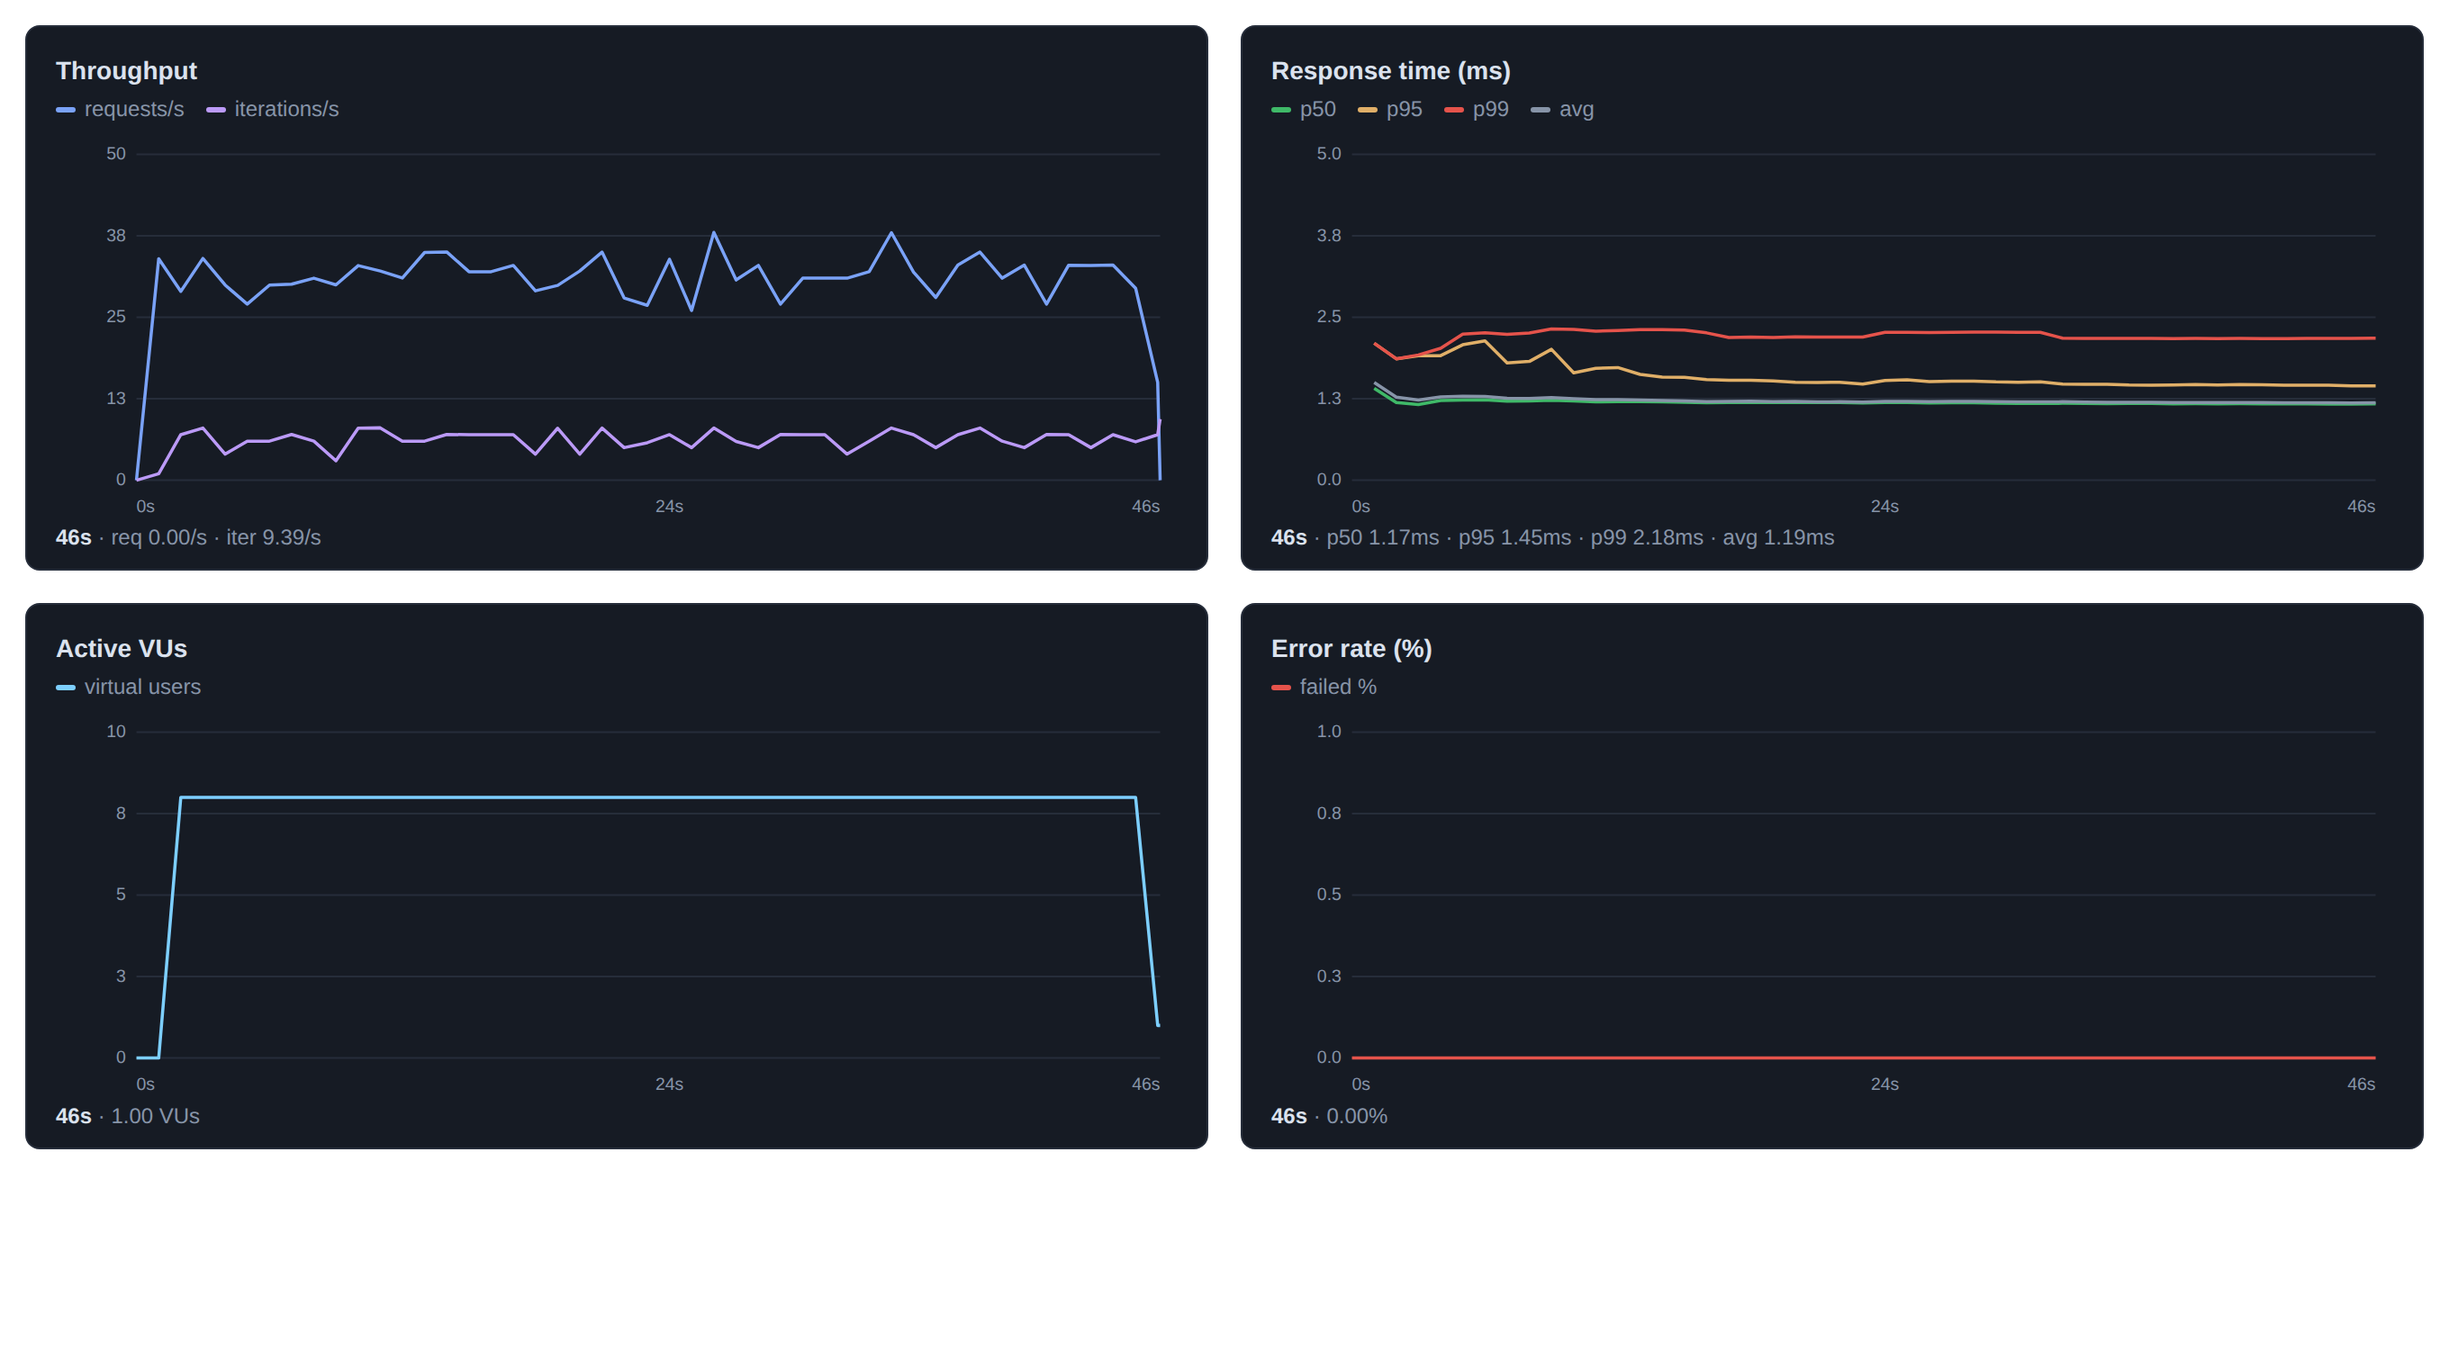
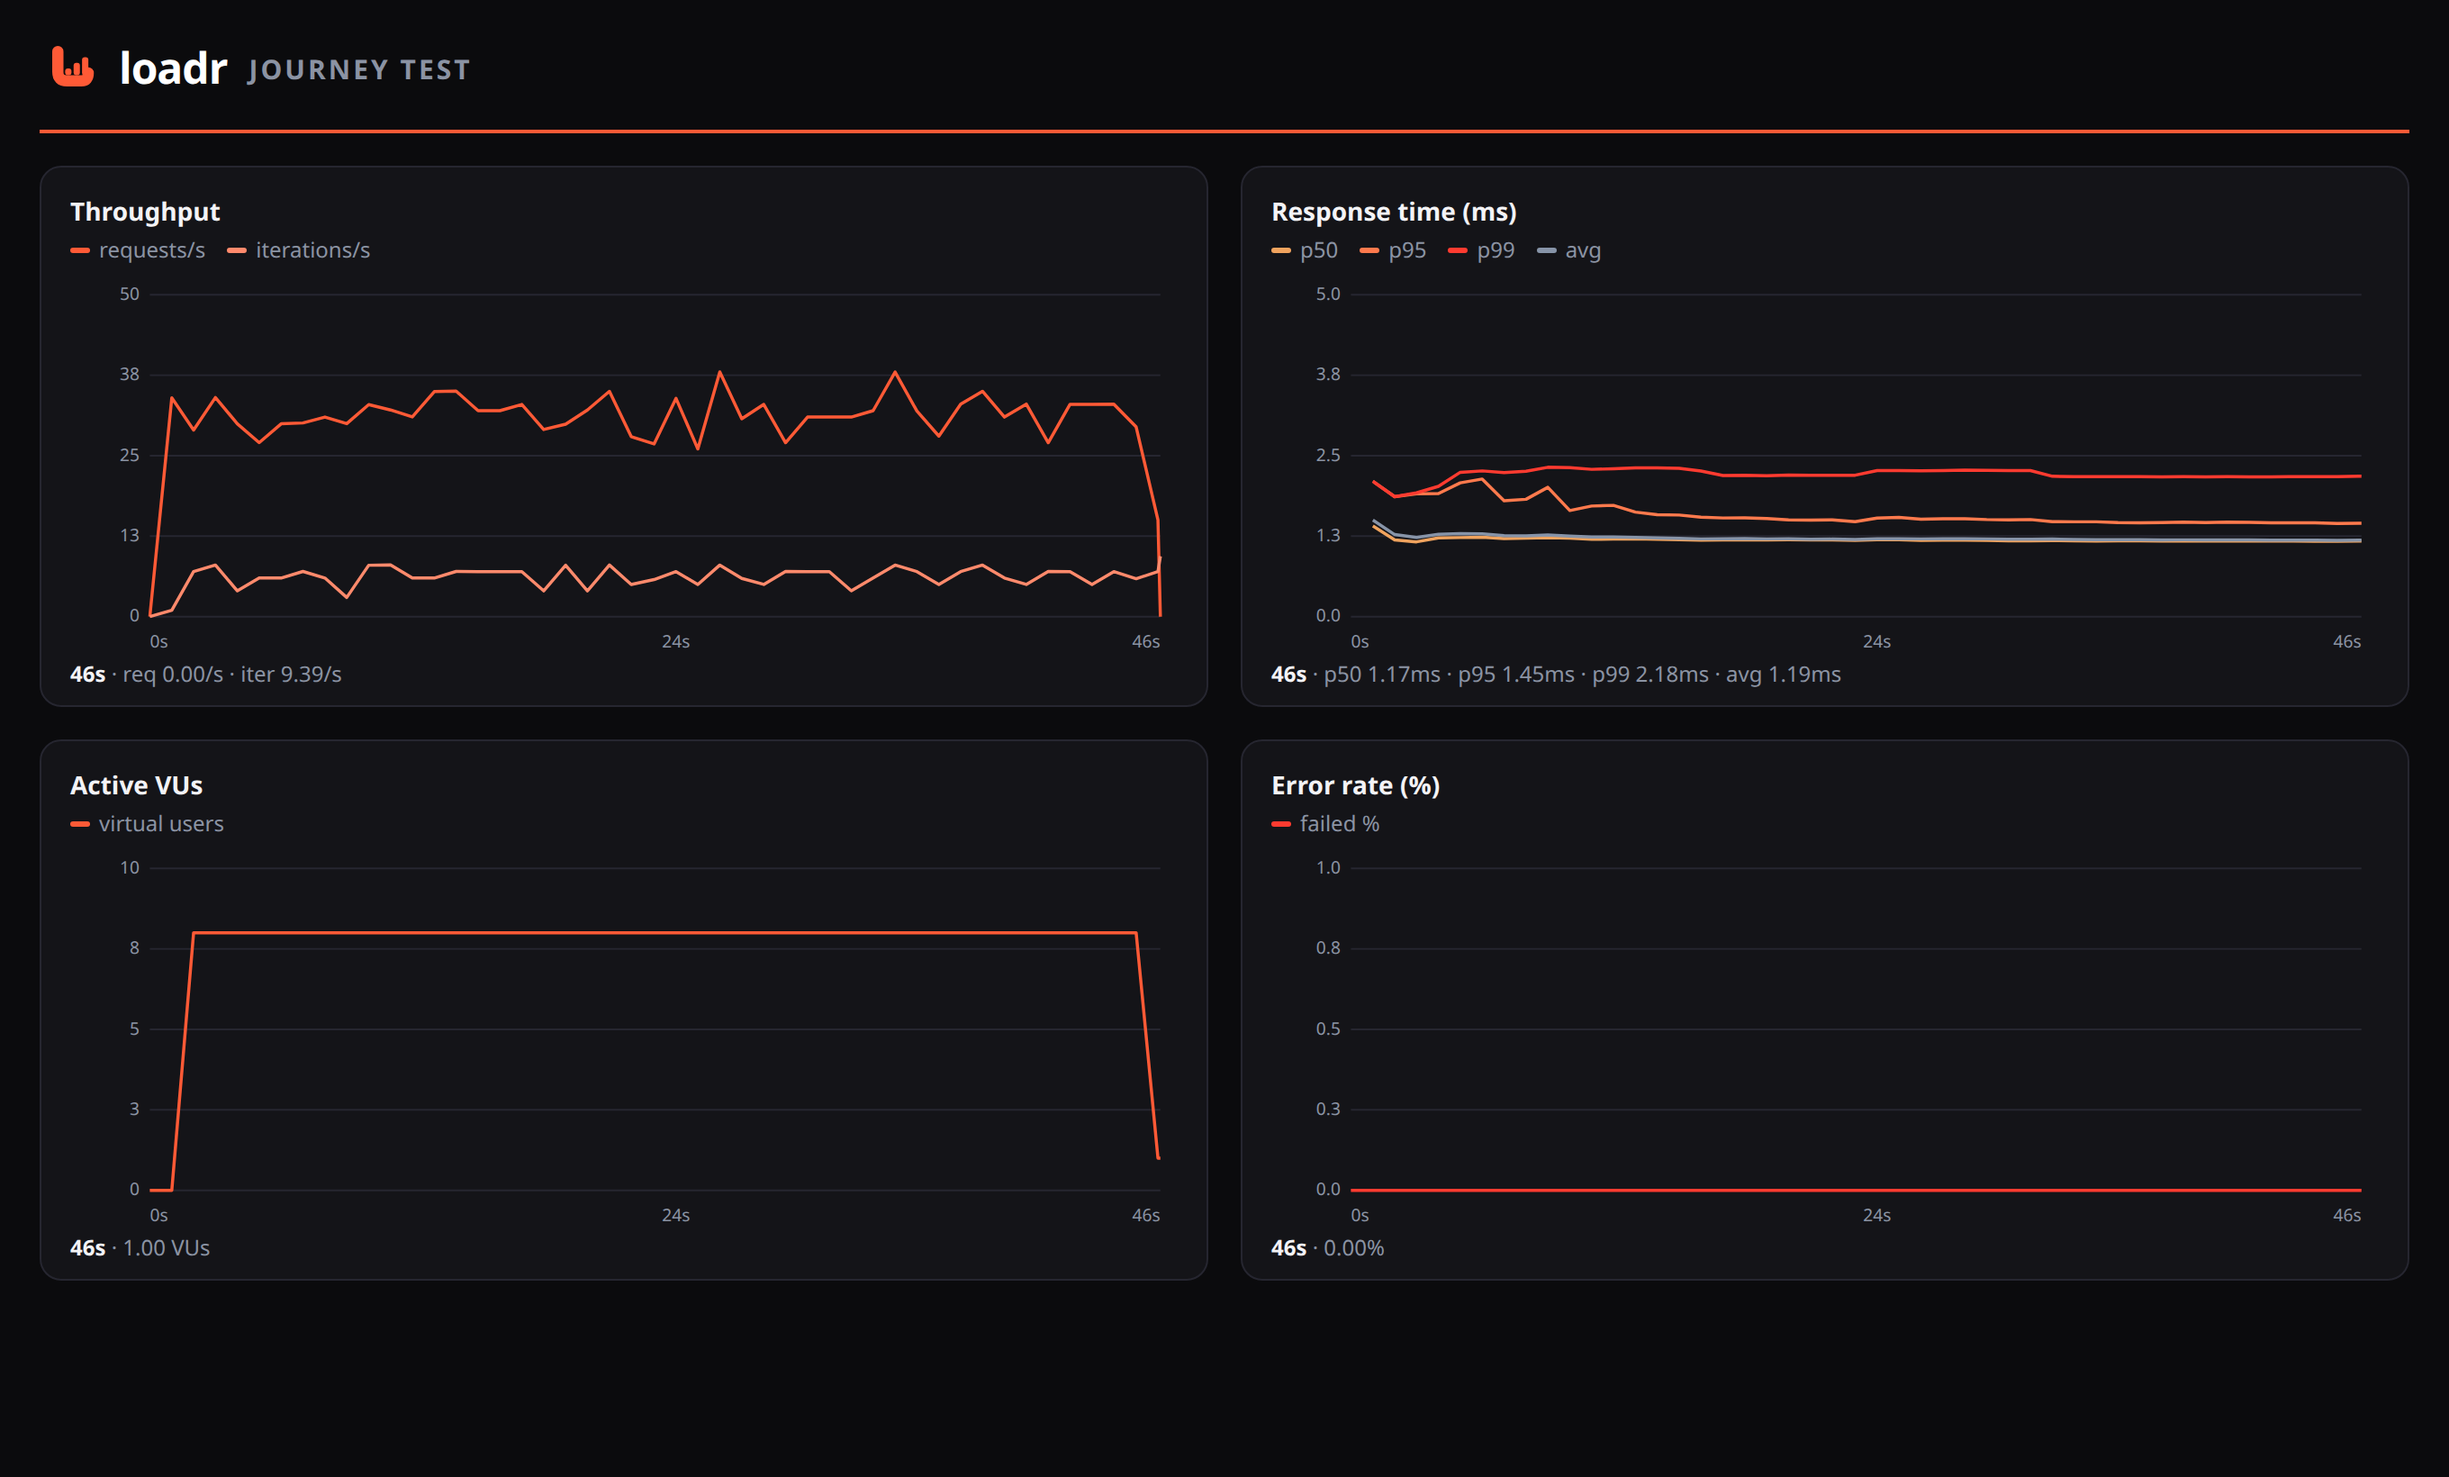
docs: loadr-brand the graphs + replace ASCII pipeline with a drawio PNG
- Re-theme all 8 chart panels to loadr.io branding: dark canvas, ember
  (#ff5a36) series + legend swatches, and a logo/wordmark header per image.
- Replace the ASCII pipeline diagram with a loadr-themed diagram authored in
  drawio (docs/diagrams/pipeline.drawio) and exported to PNG via the drawio CLI
  — build → 8 parallel tests (each with Postgres + Redis) → aggregate report.
- README: explain the stress test's flat-throughput knee (Little's Law) so the
  graph isn't misread as a bug.

Claude-Session: https://claude.ai/code/session_01QDBfsiBMBCbrb9jtShZ8ua

diff --git a/README.md b/README.md
@@ -26,21 +26,11 @@ It ships:
 
 ## The pipeline
 
-```
-        ┌─────────┐
-        │  build  │   compile the API once, share the binary
-        └────┬────┘
-             │
-   ┌─────┬─────┬─────┬─────┬─────┬─────┬─────┐
-   ▼     ▼     ▼     ▼     ▼     ▼     ▼     ▼
- smoke load stress spike arrival soak journey impulse   ← run in parallel, each with
-   │     │     │     │   -rate   │     │     │             its own Postgres + Redis
-   └─────┴─────┴──┬──┴─────┴─────┴─────┴─────┘
-                  ▼
-             ┌─────────┐
-             │ report  │   one table, all results, on the run summary
-             └─────────┘
-```
+![loadr performance pipeline](docs/diagrams/pipeline.png)
+
+A single `build` job compiles the API once; the `perf` matrix then runs all
+eight test types **in parallel** (each on its own runner with its own Postgres +
+Redis), and a final `report` job stitches the summaries together.
 
 Each perf job spins up `postgres:16` + `redis:7` **service containers**, starts
 the API (it migrates + seeds on boot), then installs and runs loadr via the
@@ -90,6 +80,15 @@ comfortable levels against the CPU-bound `/api/compute` path to find where
 latency turns up. `abort_on_fail` kills the run if errors run away.
 
 ![stress](docs/graphs/stress.png)
+
+> **Why does throughput stay flat while VUs and latency climb?** That flat line
+> *is* the result. The server saturates early (~10 VUs maxes the CPU and the
+> 20-connection DB pool), so it can't *complete* requests any faster — throughput
+> pins at its ceiling (~2.2k req/s here). Every extra VU past that knee doesn't
+> add throughput, it just joins the queue, so response time rises instead. It's
+> Little's Law — `concurrency = throughput × latency`: with throughput capped,
+> driving concurrency up forces latency up. Finding that knee is the point of a
+> stress test.
 
 ### 🔹 spike — a sudden surge
 `ramping-arrival-rate`, 20 → **200** → 20 orders/sec (open model). A calm
